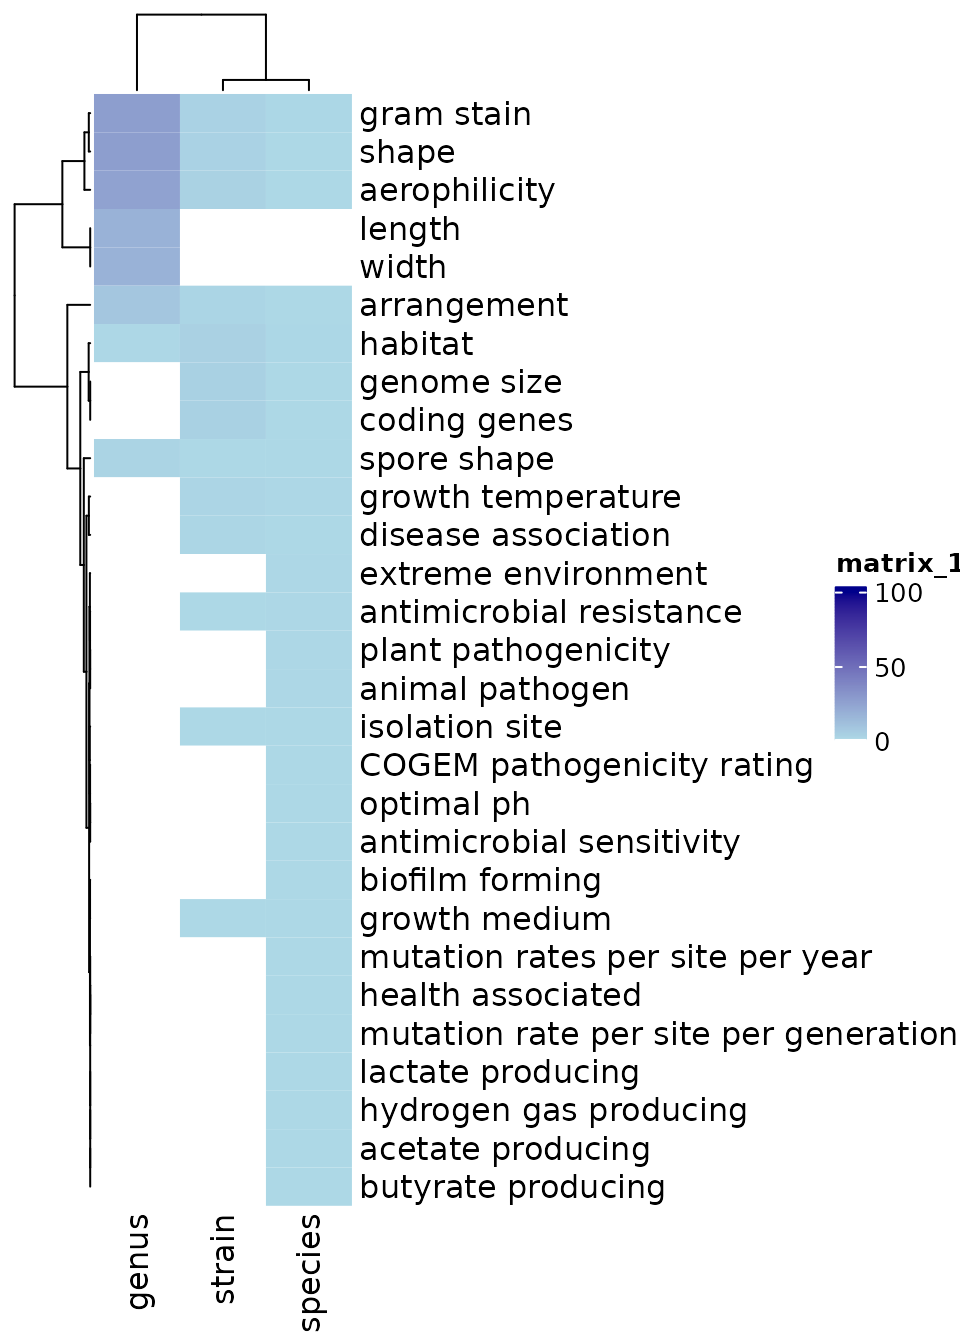
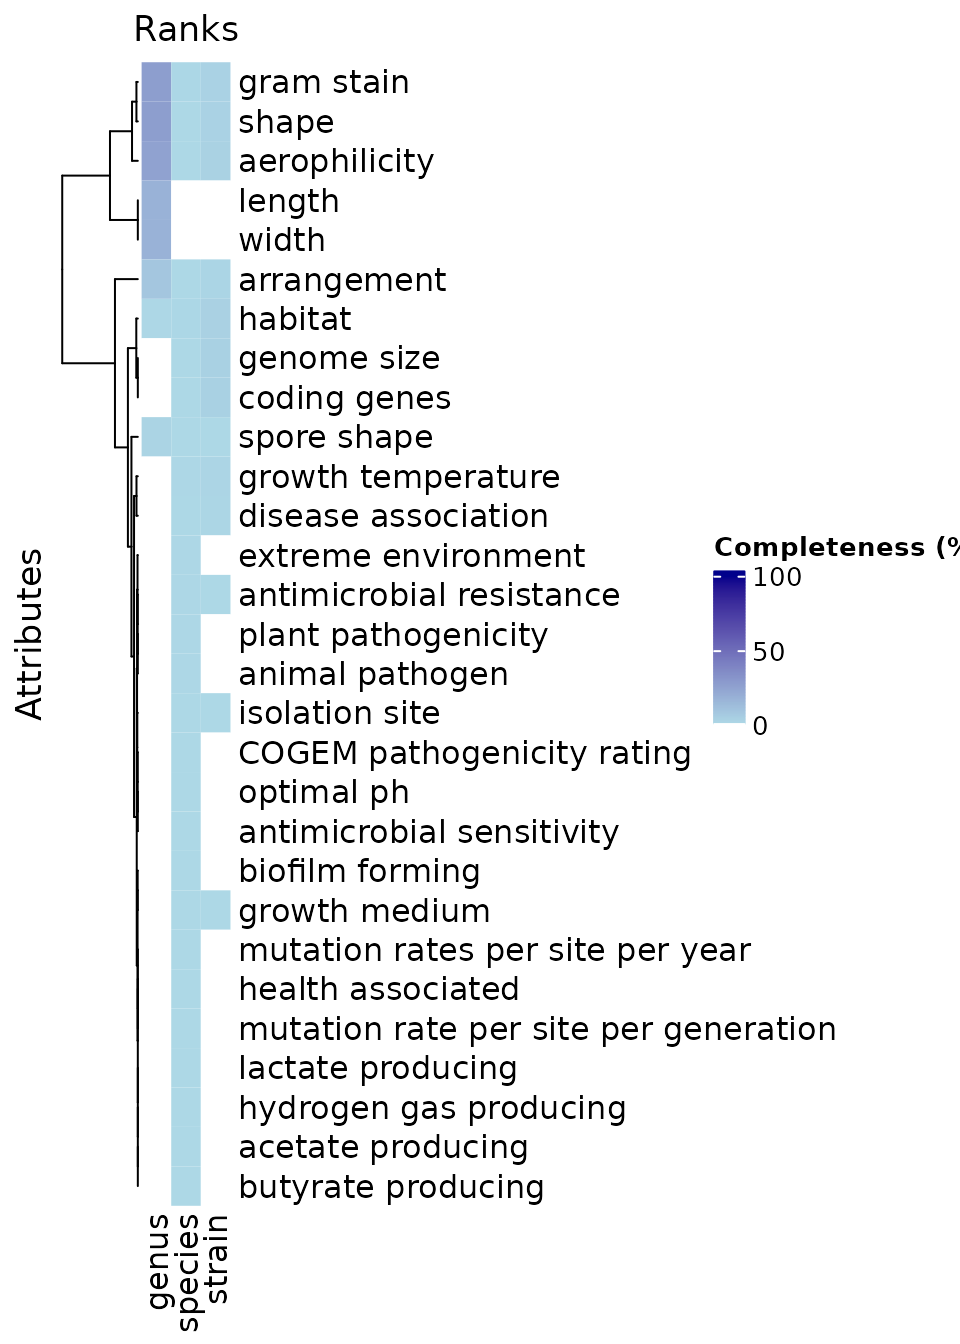
Built site for bugphyzzAnalyses: 0.1.0@a229d70

Changed region(s): [[0.0, 0.0, 1.0, 1.0], [0.8438, 0.6875, 0.9062, 0.7188]]

diff --git a/articles/completeness.html b/articles/completeness.html
@@ -55,7 +55,14 @@
   </ul>
 </li>
       </ul>
-<ul class="nav navbar-nav navbar-right"></ul>
+<ul class="nav navbar-nav navbar-right">
+<li>
+  <a href="https://github.com/waldronlab/bugphyzzAnalyses/" class="external-link">
+    <span class="fab fa-github fa-lg"></span>
+     
+  </a>
+</li>
+      </ul>
 </div>
 <!--/.nav-collapse -->
   </div>
@@ -71,7 +78,7 @@
       <h1 data-toc-skip>Completeness of annotations</h1>
             
       
-      
+      <small class="dont-index">Source: <a href="https://github.com/waldronlab/bugphyzzAnalyses/blob/HEAD/vignettes/articles/completeness.Rmd" class="external-link"><code>vignettes/articles/completeness.Rmd</code></a></small>
       <div class="hidden name"><code>completeness.Rmd</code></div>
 
     </div>
@@ -79,7 +86,7 @@
     
     
 <div class="sourceCode" id="cb1"><pre class="downlit sourceCode r">
-<code class="sourceCode R"><span class="kw"><a href="https://rdrr.io/r/base/library.html" class="external-link">library</a></span><span class="op">(</span><span class="va">bugphyzzAnalyses</span><span class="op">)</span>
+<code class="sourceCode R"><span class="kw"><a href="https://rdrr.io/r/base/library.html" class="external-link">library</a></span><span class="op">(</span><span class="va"><a href="https://github.com/waldronlab/bugphyzzAnalyses" class="external-link">bugphyzzAnalyses</a></span><span class="op">)</span>
 <span class="kw"><a href="https://rdrr.io/r/base/library.html" class="external-link">library</a></span><span class="op">(</span><span class="va">bugphyzz</span><span class="op">)</span>
 <span class="kw"><a href="https://rdrr.io/r/base/library.html" class="external-link">library</a></span><span class="op">(</span><span class="va"><a href="https://dplyr.tidyverse.org" class="external-link">dplyr</a></span><span class="op">)</span>
 <span class="kw"><a href="https://rdrr.io/r/base/library.html" class="external-link">library</a></span><span class="op">(</span><span class="va"><a href="http://purrr.tidyverse.org" class="external-link">purrr</a></span><span class="op">)</span>
@@ -103,7 +110,7 @@
 <div class="sourceCode" id="cb3"><pre class="downlit sourceCode r">
 <code class="sourceCode R"><span class="va">ncbi_taxonomy_table</span> <span class="op">&lt;-</span> <span class="fu"><a href="../reference/get_ncbi_taxonomy.html">get_ncbi_taxonomy</a></span><span class="op">(</span><span class="op">)</span>
 <span class="fu"><a href="https://dplyr.tidyverse.org/reference/glimpse.html" class="external-link">glimpse</a></span><span class="op">(</span><span class="va">ncbi_taxonomy_table</span><span class="op">)</span>
-<span class="co">#&gt; Rows: 545,136</span>
+<span class="co">#&gt; Rows: 545,453</span>
 <span class="co">#&gt; Columns: 10</span>
 <span class="co">#&gt; $ kingdom  <span style="color: #949494; font-style: italic;">&lt;chr&gt;</span> "Archaea", "Archaea", "Archaea", "Archaea", "Archaea", "Archa…</span>
 <span class="co">#&gt; $ phylum   <span style="color: #949494; font-style: italic;">&lt;chr&gt;</span> NA, NA, "Candidatus Baldrarchaeota", "Candidatus Baldrarchaeo…</span>
@@ -155,13 +162,19 @@
     <span class="fu"><a href="https://tibble.tidyverse.org/reference/rownames.html" class="external-link">column_to_rownames</a></span><span class="op">(</span>var <span class="op">=</span> <span class="st">'attribute'</span><span class="op">)</span> <span class="op"><a href="https://magrittr.tidyverse.org/reference/pipe.html" class="external-link">%&gt;%</a></span> 
     <span class="fu"><a href="https://rdrr.io/r/base/as.data.frame.html" class="external-link">as.data.frame</a></span><span class="op">(</span><span class="op">)</span> <span class="op"><a href="https://magrittr.tidyverse.org/reference/pipe.html" class="external-link">%&gt;%</a></span> 
     <span class="fu"><a href="https://rdrr.io/r/base/matrix.html" class="external-link">as.matrix</a></span><span class="op">(</span><span class="op">)</span> 
-<span class="va">counts_bp</span><span class="op">[</span><span class="fu"><a href="https://rdrr.io/r/base/NA.html" class="external-link">is.na</a></span><span class="op">(</span><span class="va">counts_bp</span><span class="op">)</span><span class="op">]</span> <span class="op">&lt;-</span> <span class="fl">0</span></code></pre></div>
+<span class="va">counts_bp</span><span class="op">[</span><span class="fu"><a href="https://rdrr.io/r/base/NA.html" class="external-link">is.na</a></span><span class="op">(</span><span class="va">counts_bp</span><span class="op">)</span><span class="op">]</span> <span class="op">&lt;-</span> <span class="fl">0</span>
+<span class="va">order_cols</span> <span class="op">&lt;-</span> <span class="va">valid_ranks</span><span class="op">[</span><span class="va">valid_ranks</span> <span class="op"><a href="https://rdrr.io/r/base/match.html" class="external-link">%in%</a></span> <span class="fu"><a href="https://rdrr.io/r/base/colnames.html" class="external-link">colnames</a></span><span class="op">(</span><span class="va">counts_bp</span><span class="op">)</span><span class="op">]</span>
+<span class="va">counts_bp</span> <span class="op">&lt;-</span> <span class="va">counts_bp</span><span class="op">[</span>, <span class="va">order_cols</span><span class="op">]</span></code></pre></div>
 <p>Draw heatmap</p>
 <div class="sourceCode" id="cb6"><pre class="downlit sourceCode r">
 <code class="sourceCode R"><span class="va">col_fun</span> <span class="op">&lt;-</span> <span class="fu">circlize</span><span class="fu">::</span><span class="fu"><a href="https://rdrr.io/pkg/circlize/man/colorRamp2.html" class="external-link">colorRamp2</a></span><span class="op">(</span><span class="fu"><a href="https://rdrr.io/r/base/c.html" class="external-link">c</a></span><span class="op">(</span><span class="fl">0</span>, <span class="fl">0.0001</span>, <span class="fl">100</span><span class="op">)</span>, <span class="fu"><a href="https://rdrr.io/r/base/c.html" class="external-link">c</a></span><span class="op">(</span><span class="st">"white"</span>, <span class="st">"lightblue"</span>, <span class="st">"darkblue"</span><span class="op">)</span><span class="op">)</span>
 <span class="fu"><a href="https://rdrr.io/pkg/ComplexHeatmap/man/Heatmap.html" class="external-link">Heatmap</a></span><span class="op">(</span>
     <span class="va">counts_bp</span>, 
-    col <span class="op">=</span> <span class="va">col_fun</span>
+    col <span class="op">=</span> <span class="va">col_fun</span>,
+    name <span class="op">=</span> <span class="st">'Completeness (%)'</span>,
+    row_title <span class="op">=</span> <span class="st">'Attributes'</span>,
+    column_title <span class="op">=</span> <span class="st">'Ranks'</span>,
+    cluster_columns <span class="op">=</span> <span class="cn">FALSE</span>
 <span class="op">)</span></code></pre></div>
 <p><img src="completeness_files/figure-html/unnamed-chunk-6-1.png" width="480"></p>
 </div>

diff --git a/authors.html b/authors.html
@@ -35,7 +35,13 @@
       <a href="articles/completeness.html">Completeness of annotations</a>
     </li>
   </ul></li>
-      </ul><ul class="nav navbar-nav navbar-right"></ul></div><!--/.nav-collapse -->
+      </ul><ul class="nav navbar-nav navbar-right"><li>
+  <a href="https://github.com/waldronlab/bugphyzzAnalyses/" class="external-link">
+    <span class="fab fa-github fa-lg"></span>
+     
+  </a>
+</li>
+      </ul></div><!--/.nav-collapse -->
   </div><!--/.container -->
 </div><!--/.navbar -->
 
@@ -57,20 +63,21 @@
     <div class="section level2 citation-section">
     <div>
       <h1 id="citation">Citation</h1>
-      
+      <small class="dont-index">Source: <a href="https://github.com/waldronlab/bugphyzzAnalyses/blob/HEAD/DESCRIPTION" class="external-link"><code>DESCRIPTION</code></a></small>
     </div>
     </div>
 
 
     <p>Gamboa S (2022).
 <em>bugphyzzAnalyses: Analyses performed with the bugphyzz package</em>.
-R package version 0.1.0. 
+R package version 0.1.0, <a href="https://github.com/waldronlab/bugphyzzAnalyses" class="external-link">https://github.com/waldronlab/bugphyzzAnalyses</a>. 
 </p>
     <pre>@Manual{,
   title = {bugphyzzAnalyses: Analyses performed with the bugphyzz package},
   author = {Samuel Gamboa},
   year = {2022},
   note = {R package version 0.1.0},
+  url = {https://github.com/waldronlab/bugphyzzAnalyses},
 }</pre>
 
   </div>

diff --git a/reference/get_ncbi_taxonomy.html b/reference/get_ncbi_taxonomy.html
@@ -36,7 +36,13 @@ classification from the NCBI database"><!-- mathjax --><script src="https://cdnj
       <a href="../articles/completeness.html">Completeness of annotations</a>
     </li>
   </ul></li>
-      </ul><ul class="nav navbar-nav navbar-right"></ul></div><!--/.nav-collapse -->
+      </ul><ul class="nav navbar-nav navbar-right"><li>
+  <a href="https://github.com/waldronlab/bugphyzzAnalyses/" class="external-link">
+    <span class="fab fa-github fa-lg"></span>
+     
+  </a>
+</li>
+      </ul></div><!--/.nav-collapse -->
   </div><!--/.container -->
 </div><!--/.navbar -->
 
@@ -46,7 +52,7 @@ classification from the NCBI database"><!-- mathjax --><script src="https://cdnj
   <div class="col-md-9 contents">
     <div class="page-header">
     <h1>get_ncbi_taxonomy</h1>
-    
+    <small class="dont-index">Source: <a href="https://github.com/waldronlab/bugphyzzAnalyses/blob/HEAD/R/get_ncbi_taxonomy.R" class="external-link"><code>R/get_ncbi_taxonomy.R</code></a></small>
     <div class="hidden name"><code>get_ncbi_taxonomy.Rd</code></div>
     </div>
 

diff --git a/index.html b/index.html
@@ -55,7 +55,14 @@
   </ul>
 </li>
       </ul>
-<ul class="nav navbar-nav navbar-right"></ul>
+<ul class="nav navbar-nav navbar-right">
+<li>
+  <a href="https://github.com/waldronlab/bugphyzzAnalyses/" class="external-link">
+    <span class="fab fa-github fa-lg"></span>
+     
+  </a>
+</li>
+      </ul>
 </div>
 <!--/.nav-collapse -->
   </div>
@@ -80,7 +87,15 @@
   </div>
 
   <div class="col-md-3 hidden-xs hidden-sm" id="pkgdown-sidebar">
-    <div class="license">
+    <div class="links">
+<h2 data-toc-skip>Links</h2>
+<ul class="list-unstyled">
+<li><a href="https://github.com/waldronlab/bugphyzzAnalyses/" class="external-link">Browse source code</a></li>
+<li><a href="https://github.com/waldronlab/bugphyzzAnalyses/issues" class="external-link">Report a bug</a></li>
+</ul>
+</div>
+
+<div class="license">
 <h2 data-toc-skip>License</h2>
 <ul class="list-unstyled">
 <li><a href="LICENSE.html">Full license</a></li>

diff --git a/reference/get_attr_counts.html b/reference/get_attr_counts.html
@@ -35,7 +35,13 @@
       <a href="../articles/completeness.html">Completeness of annotations</a>
     </li>
   </ul></li>
-      </ul><ul class="nav navbar-nav navbar-right"></ul></div><!--/.nav-collapse -->
+      </ul><ul class="nav navbar-nav navbar-right"><li>
+  <a href="https://github.com/waldronlab/bugphyzzAnalyses/" class="external-link">
+    <span class="fab fa-github fa-lg"></span>
+     
+  </a>
+</li>
+      </ul></div><!--/.nav-collapse -->
   </div><!--/.container -->
 </div><!--/.navbar -->
 
@@ -45,7 +51,7 @@
   <div class="col-md-9 contents">
     <div class="page-header">
     <h1>Get counts for attribute</h1>
-    
+    <small class="dont-index">Source: <a href="https://github.com/waldronlab/bugphyzzAnalyses/blob/HEAD/R/get_attr_counts.R" class="external-link"><code>R/get_attr_counts.R</code></a></small>
     <div class="hidden name"><code>get_attr_counts.Rd</code></div>
     </div>
 

diff --git a/articles/index.html b/articles/index.html
@@ -35,7 +35,13 @@
       <a href="../articles/completeness.html">Completeness of annotations</a>
     </li>
   </ul></li>
-      </ul><ul class="nav navbar-nav navbar-right"></ul></div><!--/.nav-collapse -->
+      </ul><ul class="nav navbar-nav navbar-right"><li>
+  <a href="https://github.com/waldronlab/bugphyzzAnalyses/" class="external-link">
+    <span class="fab fa-github fa-lg"></span>
+     
+  </a>
+</li>
+      </ul></div><!--/.nav-collapse -->
   </div><!--/.container -->
 </div><!--/.navbar -->
 

diff --git a/reference/index.html b/reference/index.html
@@ -35,7 +35,13 @@
       <a href="../articles/completeness.html">Completeness of annotations</a>
     </li>
   </ul></li>
-      </ul><ul class="nav navbar-nav navbar-right"></ul></div><!--/.nav-collapse -->
+      </ul><ul class="nav navbar-nav navbar-right"><li>
+  <a href="https://github.com/waldronlab/bugphyzzAnalyses/" class="external-link">
+    <span class="fab fa-github fa-lg"></span>
+     
+  </a>
+</li>
+      </ul></div><!--/.nav-collapse -->
   </div><!--/.container -->
 </div><!--/.navbar -->
 

diff --git a/LICENSE-text.html b/LICENSE-text.html
@@ -35,7 +35,13 @@
       <a href="articles/completeness.html">Completeness of annotations</a>
     </li>
   </ul></li>
-      </ul><ul class="nav navbar-nav navbar-right"></ul></div><!--/.nav-collapse -->
+      </ul><ul class="nav navbar-nav navbar-right"><li>
+  <a href="https://github.com/waldronlab/bugphyzzAnalyses/" class="external-link">
+    <span class="fab fa-github fa-lg"></span>
+     
+  </a>
+</li>
+      </ul></div><!--/.nav-collapse -->
   </div><!--/.container -->
 </div><!--/.navbar -->
 

diff --git a/LICENSE.html b/LICENSE.html
@@ -35,7 +35,13 @@
       <a href="articles/completeness.html">Completeness of annotations</a>
     </li>
   </ul></li>
-      </ul><ul class="nav navbar-nav navbar-right"></ul></div><!--/.nav-collapse -->
+      </ul><ul class="nav navbar-nav navbar-right"><li>
+  <a href="https://github.com/waldronlab/bugphyzzAnalyses/" class="external-link">
+    <span class="fab fa-github fa-lg"></span>
+     
+  </a>
+</li>
+      </ul></div><!--/.nav-collapse -->
   </div><!--/.container -->
 </div><!--/.navbar -->
 

diff --git a/404.html b/404.html
@@ -54,7 +54,14 @@
   </ul>
 </li>
       </ul>
-<ul class="nav navbar-nav navbar-right"></ul>
+<ul class="nav navbar-nav navbar-right">
+<li>
+  <a href="https://github.com/waldronlab/bugphyzzAnalyses/" class="external-link">
+    <span class="fab fa-github fa-lg"></span>
+     
+  </a>
+</li>
+      </ul>
 </div>
 <!--/.nav-collapse -->
   </div>
